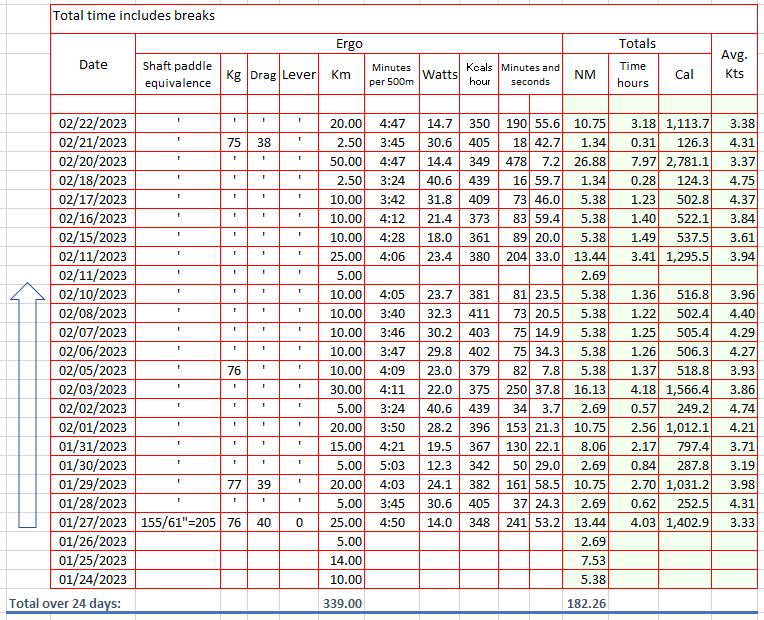
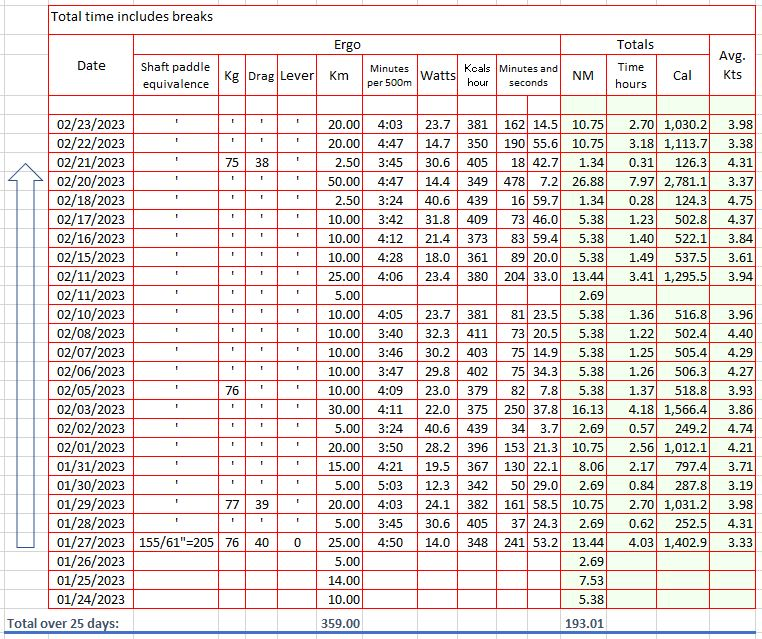
updates

diff --git a/dry-run/log/index.html b/dry-run/log/index.html
@@ -214,11 +214,11 @@ $(document).ready(function(){
 <p>This is not the actual trip. This is just training mapped on chart to have an idea of what the real thing might be.</p>
 </blockquote>
 <blockquote>
-<p>February 22, 2023</p>
+<p>February 23, 2023</p>
 </blockquote>
-<p><img src="/img/feb22.JPG" alt="February 22">
+<p><img src="/img/feb23.JPG" alt="February 23">
 <div style="text-align: center">
-24 days of ergo, 182.2 nautical miles, or 339 Km
+25 days of ergo, 193 nautical miles, or 359 Km
 </div>
 </p>
 <p><img src="/img/Stats.JPG" alt="Stats">
